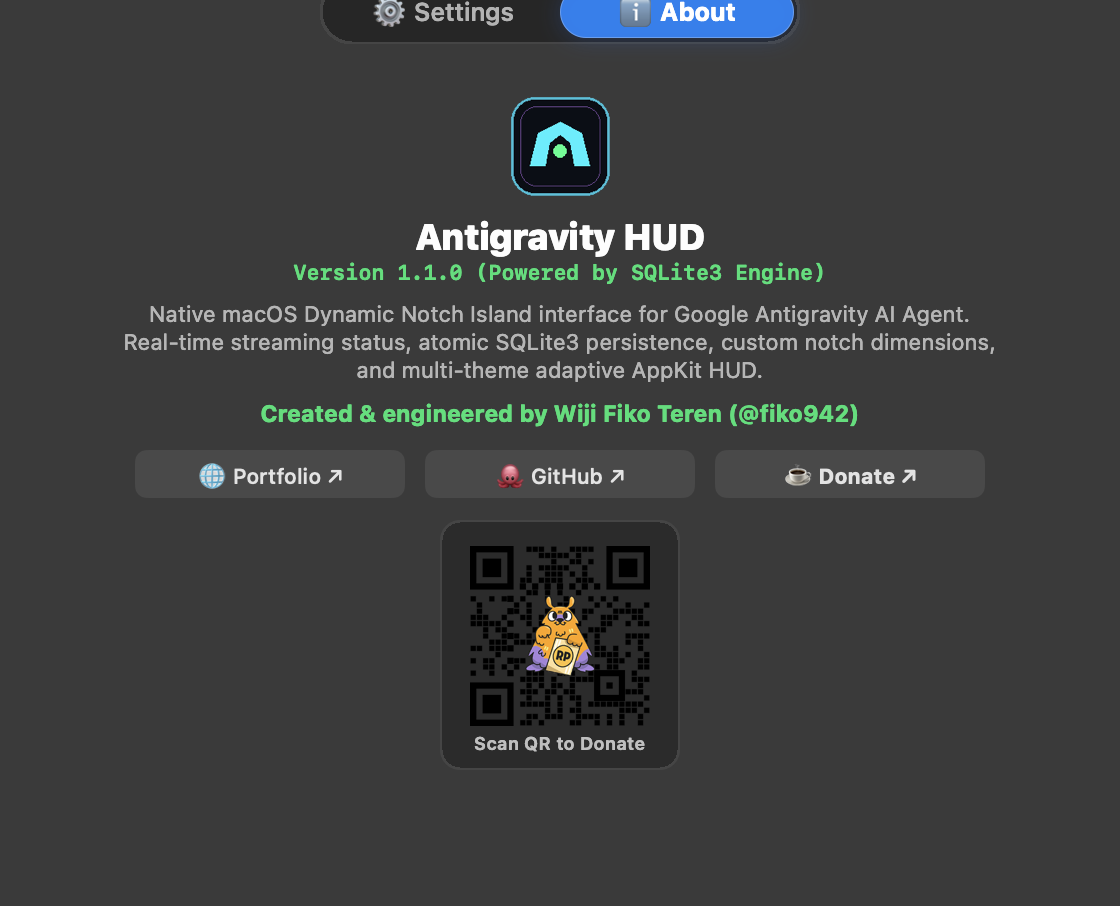
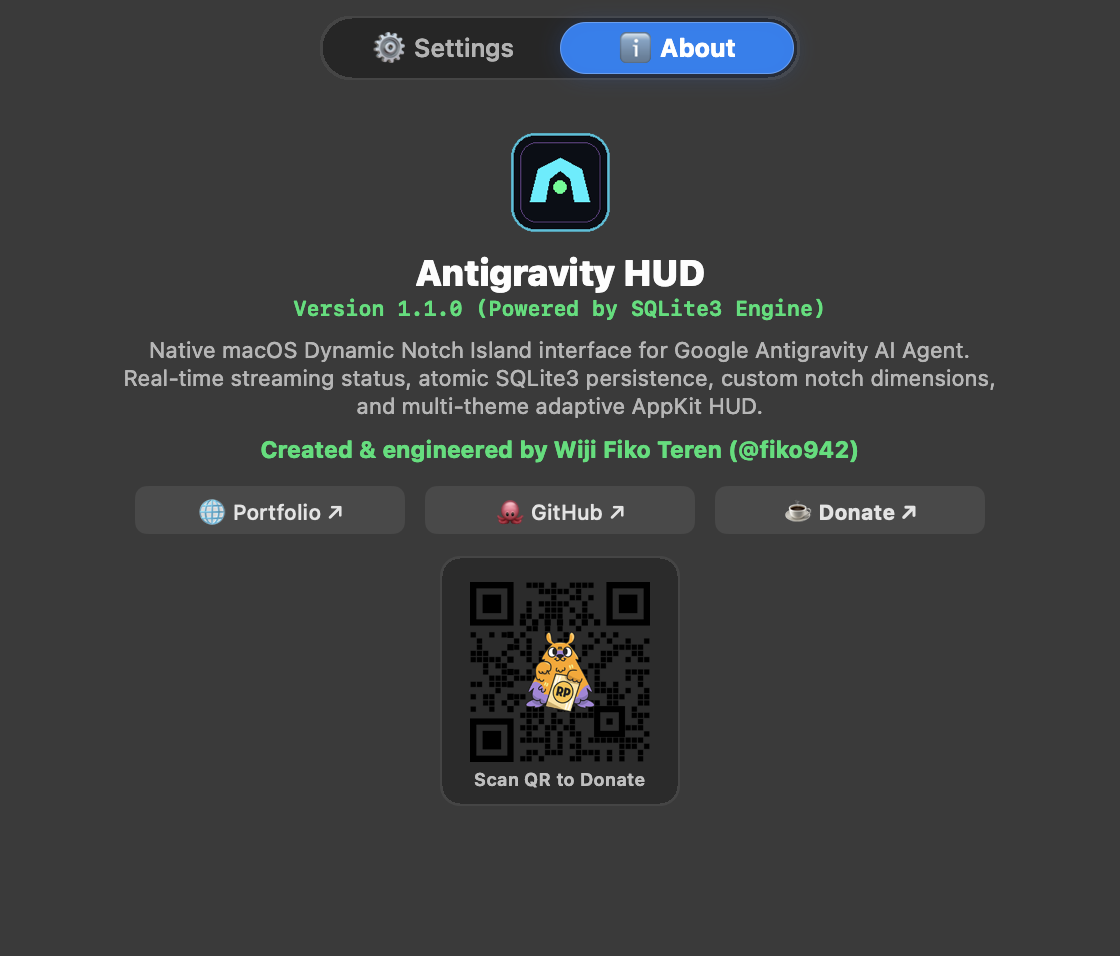
fix(ui): lower pill segmented control with proper titlebar top margin for clean spacing

Changed region(s): [[0.0938, 0.0, 0.9062, 0.5563], [0.4062, 0.5872, 0.5938, 0.8344], [0.3125, 0.0, 0.4688, 0.0618]]

diff --git a/src/UI/SettingsWindowController.swift b/src/UI/SettingsWindowController.swift
@@ -184,10 +184,10 @@ public class SettingsWindowController: NSWindowController, NSWindowDelegate {
         visualEffect.blendingMode = .behindWindow
         window.contentView = visualEffect
 
-        // Top Liquid Pill Control
+        // Top Liquid Pill Control (with safe 40pt titlebar top margin)
         pillSegmentedControl = LiquidPillSegmentedControl(
             items: ["⚙ Settings", "ℹ About"],
-            frame: NSRect(x: (560 - 240) / 2, y: 570 - 54, width: 240, height: 32)
+            frame: NSRect(x: (560 - 240) / 2, y: 590 - 72, width: 240, height: 32)
         )
         pillSegmentedControl.onSelectionChanged = { [weak self] index in
             if let tab = SettingsTab(rawValue: index) {
@@ -197,7 +197,7 @@ public class SettingsWindowController: NSWindowController, NSWindowDelegate {
         visualEffect.addSubview(pillSegmentedControl)
 
         // Main Container View
-        containerView = NSView(frame: NSRect(x: 0, y: 0, width: 560, height: 570 - 64))
+        containerView = NSView(frame: NSRect(x: 0, y: 0, width: 560, height: 590 - 82))
         visualEffect.addSubview(containerView)
 
         buildSettingsView()
@@ -504,7 +504,7 @@ public class SettingsWindowController: NSWindowController, NSWindowDelegate {
     private func showTab(_ tab: SettingsTab, animated: Bool = true) {
         guard let window = self.window else { return }
 
-        let targetH: CGFloat = (tab == .settings) ? 570.0 : 485.0
+        let targetH: CGFloat = (tab == .settings) ? 590.0 : 510.0
         let targetW: CGFloat = 560.0
 
         let currentFrame = window.frame
@@ -518,8 +518,8 @@ public class SettingsWindowController: NSWindowController, NSWindowDelegate {
         }
 
         let contentH = targetH
-        pillSegmentedControl.frame = NSRect(x: (targetW - 240) / 2, y: contentH - 54, width: 240, height: 32)
-        containerView.frame = NSRect(x: 0, y: 0, width: targetW, height: contentH - 64)
+        pillSegmentedControl.frame = NSRect(x: (targetW - 240) / 2, y: contentH - 72, width: 240, height: 32)
+        containerView.frame = NSRect(x: 0, y: 0, width: targetW, height: contentH - 82)
         settingsScrollView.frame = containerView.bounds
         aboutView.frame = containerView.bounds
 
